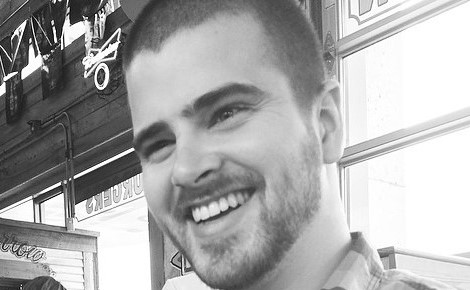
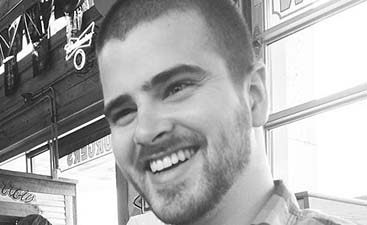
Finalized a lot of styles, and added some effects for extra credit

diff --git a/index.html b/index.html
@@ -11,33 +11,33 @@
 	
 	<body>
 
-		<header class="main-header"><!-- start header -->
+		<header class="main-header" id="top"><!-- start header -->
             <div class="site-logo">
                 <a href="/">
-                    <!--<img src="img/logo.svg" alt="Poly - UI Toolkit">-->
                     <h2 id="designer-name">Ben Wegley</h2>
                 </a>
             </div>
             
             
             <ul class="nav">
-                <li><a href="#">HOME</a></li>
-                <li><a href="#">PORTFOLIO</a></li>		
-                <li><a href="#">CONTACT</a></li>						
+                <li id="home-button"><a href="index.html">HOME</a></li>
+                <li id="portfolio-button"><a href="#portfolio-title">PORTFOLIO</a></li>
+                <li id="skills-button"><a href="#skills-title">SKILLS</a></li>	
+                <li id="contact-button"><a href="#contact-section">CONTACT</a></li>
             </ul>
 
         </header><!-- end header -->
         
          <div class="about"> <!-- start about -->
-            <img id="profile-picture" src="img/responsive-layout-profile.png" alt="Profile Picture">
+            <img id="profile-picture" src="img/me.jpg" alt="Profile Picture">
             <p class="tagline" id="header-tagline">Hi! I'm a front-end developer who loves responsive design and css. I recently finished a degree in front-end web development at Treehouse and am excited to put all my skills to use!</p>
         </div><!-- end about -->
         
-        <h3 class="portfolio-title">PORTFOLIO</h3>
+        <h3 class="portfolio-title" id="portfolio-title">PORTFOLIO</h3>
         
         <div class="container"><!-- start container -->
 
-            <div class="project" id="first" alt="">
+            <div class="project" id="first">
                 <img src="img/portfolio-1.png" alt="Marketing Page">
                 <h1 class="piece-title">Marketing Page</h1>
                 <p>This project shows the front page of a marketing website meant for a specific business I'm interested in.</p>
@@ -72,11 +72,59 @@
                 <h1 class="piece-title">Calculator</h1>
                 <p>Someone can enter in the numbers they want, and press the big blue button and get the result.</p>
             </div>
+            
+            <div class="project" id="seventh">
+                <img src="img/portfolio-7.png" alt="Video Player">
+                <h1>Video Player</h1>
+                <p>This project shows videos in a player similar to Vimeo and allows you to pause, play, rewing and stop videos.</p>
+            </div>
+
+            <div class="project" id="eigth">
+                <img src="img/portfolio-14.png" alt="Sticky Notes">
+                <h1 class="piece-title">Sticky Notes</h1>
+                <p>This allows you to place movable sticky notes on your screen to help you remember tasks or goals.</p>
+            </div>
+            
+            <div class="project" id="ninth">
+                <img src="img/portfolio-15.png" alt="Web Browser">
+                <h1 class="piece-title">Web Browser</h1>
+                <p>This project is a simple web browser that allows you to browse the internet (obviously)</p>
+            </div>
+            
+            <div class="project" id="tenth">
+                <img src="img/portfolio-8.png" alt="Other Video Player">
+                <h1 class="piece-title">Other Video Player</h1>
+                <p>This project plays videos similar to YouTube's video player.</p>
+            </div>
+            
+            <div class="project" id="eleventh">
+                <img src="img/portfolio-9.png" alt="Database Viewer">
+                <h1 class="piece-title">Database Viewer</h1>
+                <p>This project allows you to view tables in your database in a visually appealing way.</p>
+            </div>
+            
+            <div class="project" id="twelveth">
+                <img src="img/portfolio-10.png" alt="Loading Animation">
+                <h1 class="piece-title">Loading Animation</h1>
+                <p>This project is a Javascript based loading animation to play while a website is being loaded.</p>
+            </div>
 
 		</div><!-- end container -->
         
+        <div class="skills"> <!-- start contact -->
+            <h3 class="skills-section" id="skills-title">SKILLS</h3>
+            <ul>
+                <li>HTML</li>
+                <li>CSS</li>
+                <li>Javascript</li>
+                <li>Jquery</li>
+                <li>PHP</li>
+                <li>A little Ruby</li>
+            </ul>
+        </div><!-- end contact -->
+        
         <div class="contact"> <!-- start contact -->
-            <h3 class="portfolio-title">CONTACT</h3>
+            <h3 class="portfolio-title" id="contact-section">CONTACT</h3>
             <p class="tagline" id="footer-tagline">If you're interested in chatting or want more information about what I've been working on, I'd love to hear from you!</p>
             <p>Phone <strong>+1 (111) 555-1234</strong></p>
             <p>Email <strong>email@yoursite.com</strong></p>
@@ -85,15 +133,15 @@
         <footer class="main-footer"><!-- start footer -->
 				
             <a class="footer-name" href="/">
-                <!--<img src="img/logo.svg" alt="Poly - UI Toolkit">-->
                 <h2 id="footer-designer-name">Ben Wegley</h2>
             </a>
 
             <ul class="nav" id="footer-nav">
-                <li id="btt"><a href="#">BACK TO TOP</a></li>
-                <li id="home"><a href="#">HOME</a></li>
-                <li id="portfolio"><a href="#">PORTFOLIO</a></li>		
-                <li id="contact"><a href="#">CONTACT</a></li>
+                <li id="btt"><a href="#top">BACK TO TOP</a></li>
+                <li id="home"><a href="index.html">HOME</a></li>
+                <li id="portfolio"><a href="#portfolio-title">PORTFOLIO</a></li>
+                <li id="skills"><a href="#skills-title">SKILLS</a></li>
+                <li id="contact"><a href="#contact-section">CONTACT</a></li>
             </ul>
             
         </footer><!-- end header -->

diff --git a/css/base.css b/css/base.css
@@ -64,9 +64,11 @@ footer {
 }
 
 .about,
-.contact {
+.contact,
+.skills {
 	text-align: center;
 	font-size: 1.15em;
+    border-top: .5px solid turquoise;
 }
 
 .contact {
@@ -78,12 +80,30 @@ footer {
     align-items: center;
 }
 
+.skills {
+    padding: .5em .55em 3.5em .55em;
+    background-color: whitesmoke;
+    opacity: .85;
+    display: flex;
+    flex-direction: column; 
+}
+
 .container {
 	margin-top: 3.25em;
     width: 90%;
 	margin: auto;
     display: flex;
     flex-direction: column;
+}
+
+.skills li {
+    padding: .5em;
+    margin: .25em;
+    background-color: lightblue;
+    transition: background-color 0.5s ease;
+}
+.skills li:hover {   
+    background-color: lightcoral;
 }
 
 /* ---- Float clearfix ---- */
@@ -116,8 +136,14 @@ footer {
 
 #home,
 #portfolio,
-#contact {
+#contact,
+#skills {
    display: none; 
+}
+
+#skills-title {
+    color: black;
+    padding: .5em;
 }
 
 /* --------------------------

diff --git a/css/queries.css b/css/queries.css
@@ -20,6 +20,7 @@
 	.nav a {
 		border-bottom-color: transparent;
         margin-left: 2em;
+        padding: .5em 1em;
 	}
     
     .about {
@@ -68,7 +69,8 @@
     
     #home,
     #portfolio,
-    #contact {
+    #contact,
+    #skills {
        display: block; 
     }
 	
@@ -116,21 +118,27 @@
         padding: 0 1.5em 1em 0;
     }
     
-    #footer-tagline {
-        max-width: 50%
-    }
-    
     #first,
     #third,
-    #fifth {
+    #fifth,
+    #seventh,
+    #ninth,
+    #eleventh {
 		 width: 32.5%;
 
    	}
    
     #second,
     #fourth,
-    #sixth {
+    #sixth,
+    #eigth,
+    #tenth,
+    #twelveth {
         width: 32.5%;
+    }
+    
+    #footer-tagline {
+        max-width: 50%
     }
     
 }

diff --git a/css/nav.css b/css/nav.css
@@ -10,13 +10,14 @@
 
 .main-header {
 	padding-top: 2em;
+    padding-bottom: 2em;
 }
 
 .main-footer {
 	display: flex;
 	flex-direction: row;
 	justify-content: space-between;
-	border-top: 1px solid #797e83;
+	border-top: 1px solid turquoise;
 }
 
 .site-logo {
@@ -34,17 +35,15 @@
 
 .nav a {
 	display: block;
-	color: #797e83;
 	background-color: tomato;
 	font-size: 1.125em;
-	font-weight: 300;
 	text-align: center;
 	padding: .4em;
 	margin: .2em;
-	border-bottom: 1px solid #ebecec;
 }
 
 .nav a:hover {
-	color: #0b0b0b;
-	border-bottom-color: #52bab3;
+    transition: all 0.75s ease;
+    color: lightblue;
+    background-color: dimgray
 }
